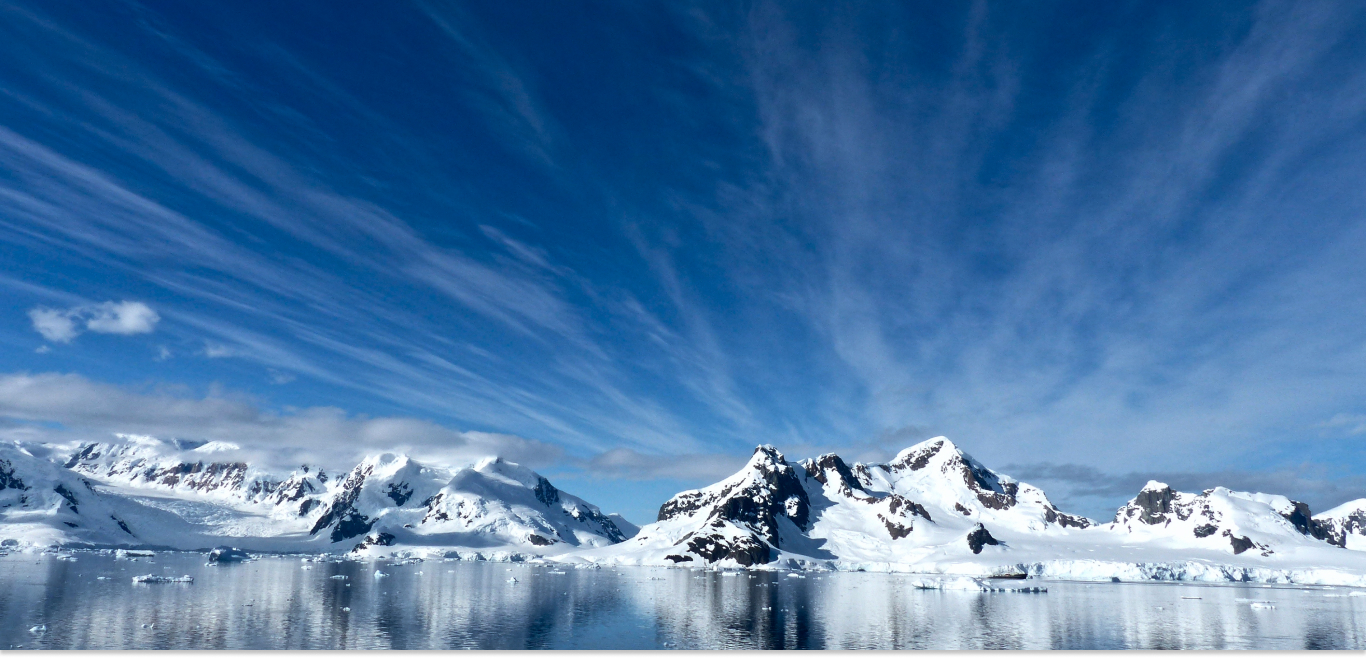
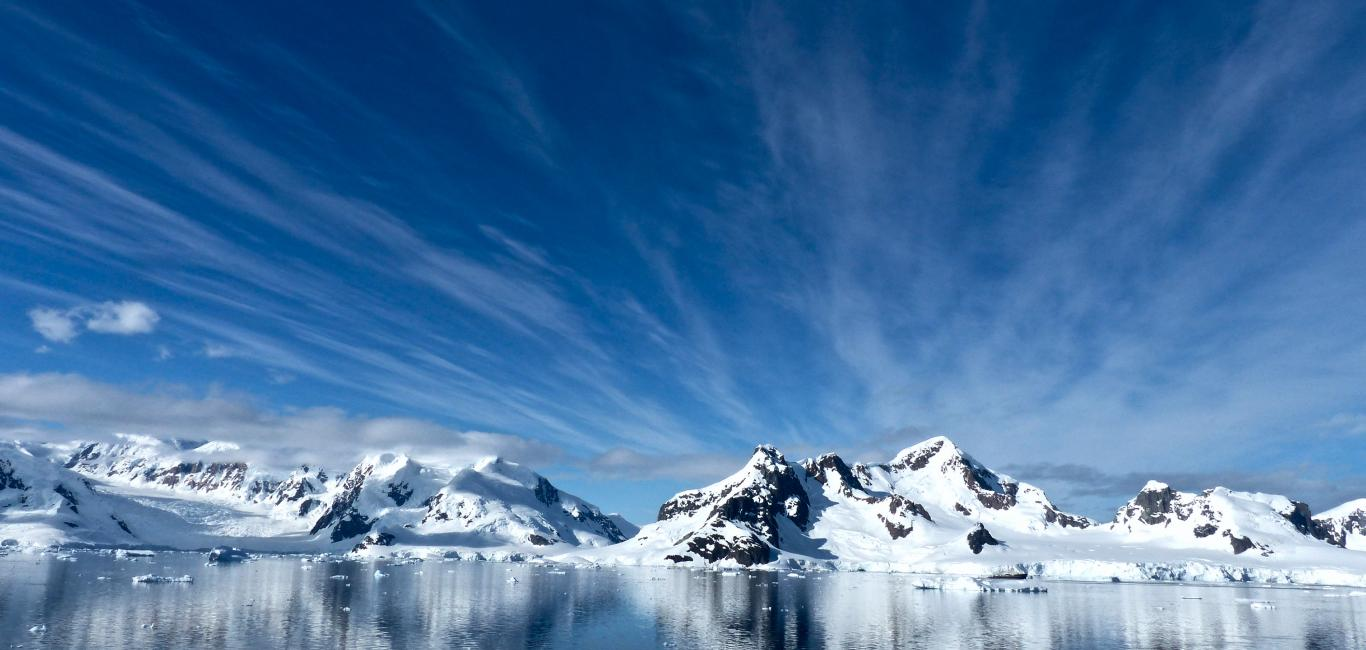
Правки сделал а тень че то не вышло ((((

diff --git a/source/sass/blocks/promo.scss b/source/sass/blocks/promo.scss
@@ -1,18 +1,4 @@
 .promo {
-  position: relative;
-
-  &::before {
-    content: "";
-    position: absolute;
-    left: 0;
-    right: 0;
-    bottom: 0;
-    width: 100%;
-    height: 168px;
-    background: linear-gradient(180deg, rgba(1, 28, 64, 0) 50%, #011c40 100%);
-    z-index: 1;
-  }
-
   @include vp-767 {
     &::before {
       content: none;

diff --git a/source/js/modules/form.js b/source/js/modules/form.js
@@ -1,5 +1,5 @@
 export default (formElement, id = 0) => {
-  const fieldElements = formElement.querySelector('[name]');
+  const fieldElements = formElement.querySelectorAll('[name]');
 
   fieldElements.forEach((fieldElement) => {
     const {name, type} = fieldElement;

diff --git a/source/sass/blocks/header-top.scss b/source/sass/blocks/header-top.scss
@@ -3,6 +3,7 @@
   background-repeat: no-repeat;
   background-position: center;
   background-size: cover;
+  box-shadow: 0 4px 4px #00000040;
 
   @include adaptive-bg("background-desktop");
 

diff --git a/source/sass/blocks/footer.scss b/source/sass/blocks/footer.scss
@@ -96,7 +96,7 @@
   &--reddit {
     &::before {
       left: 5px;
-      mask-image: url("../sprite.svg#icon-reddit");
+      mask-image: url("../img/sprite.svg#icon-reddit");
     }
   }
 }
